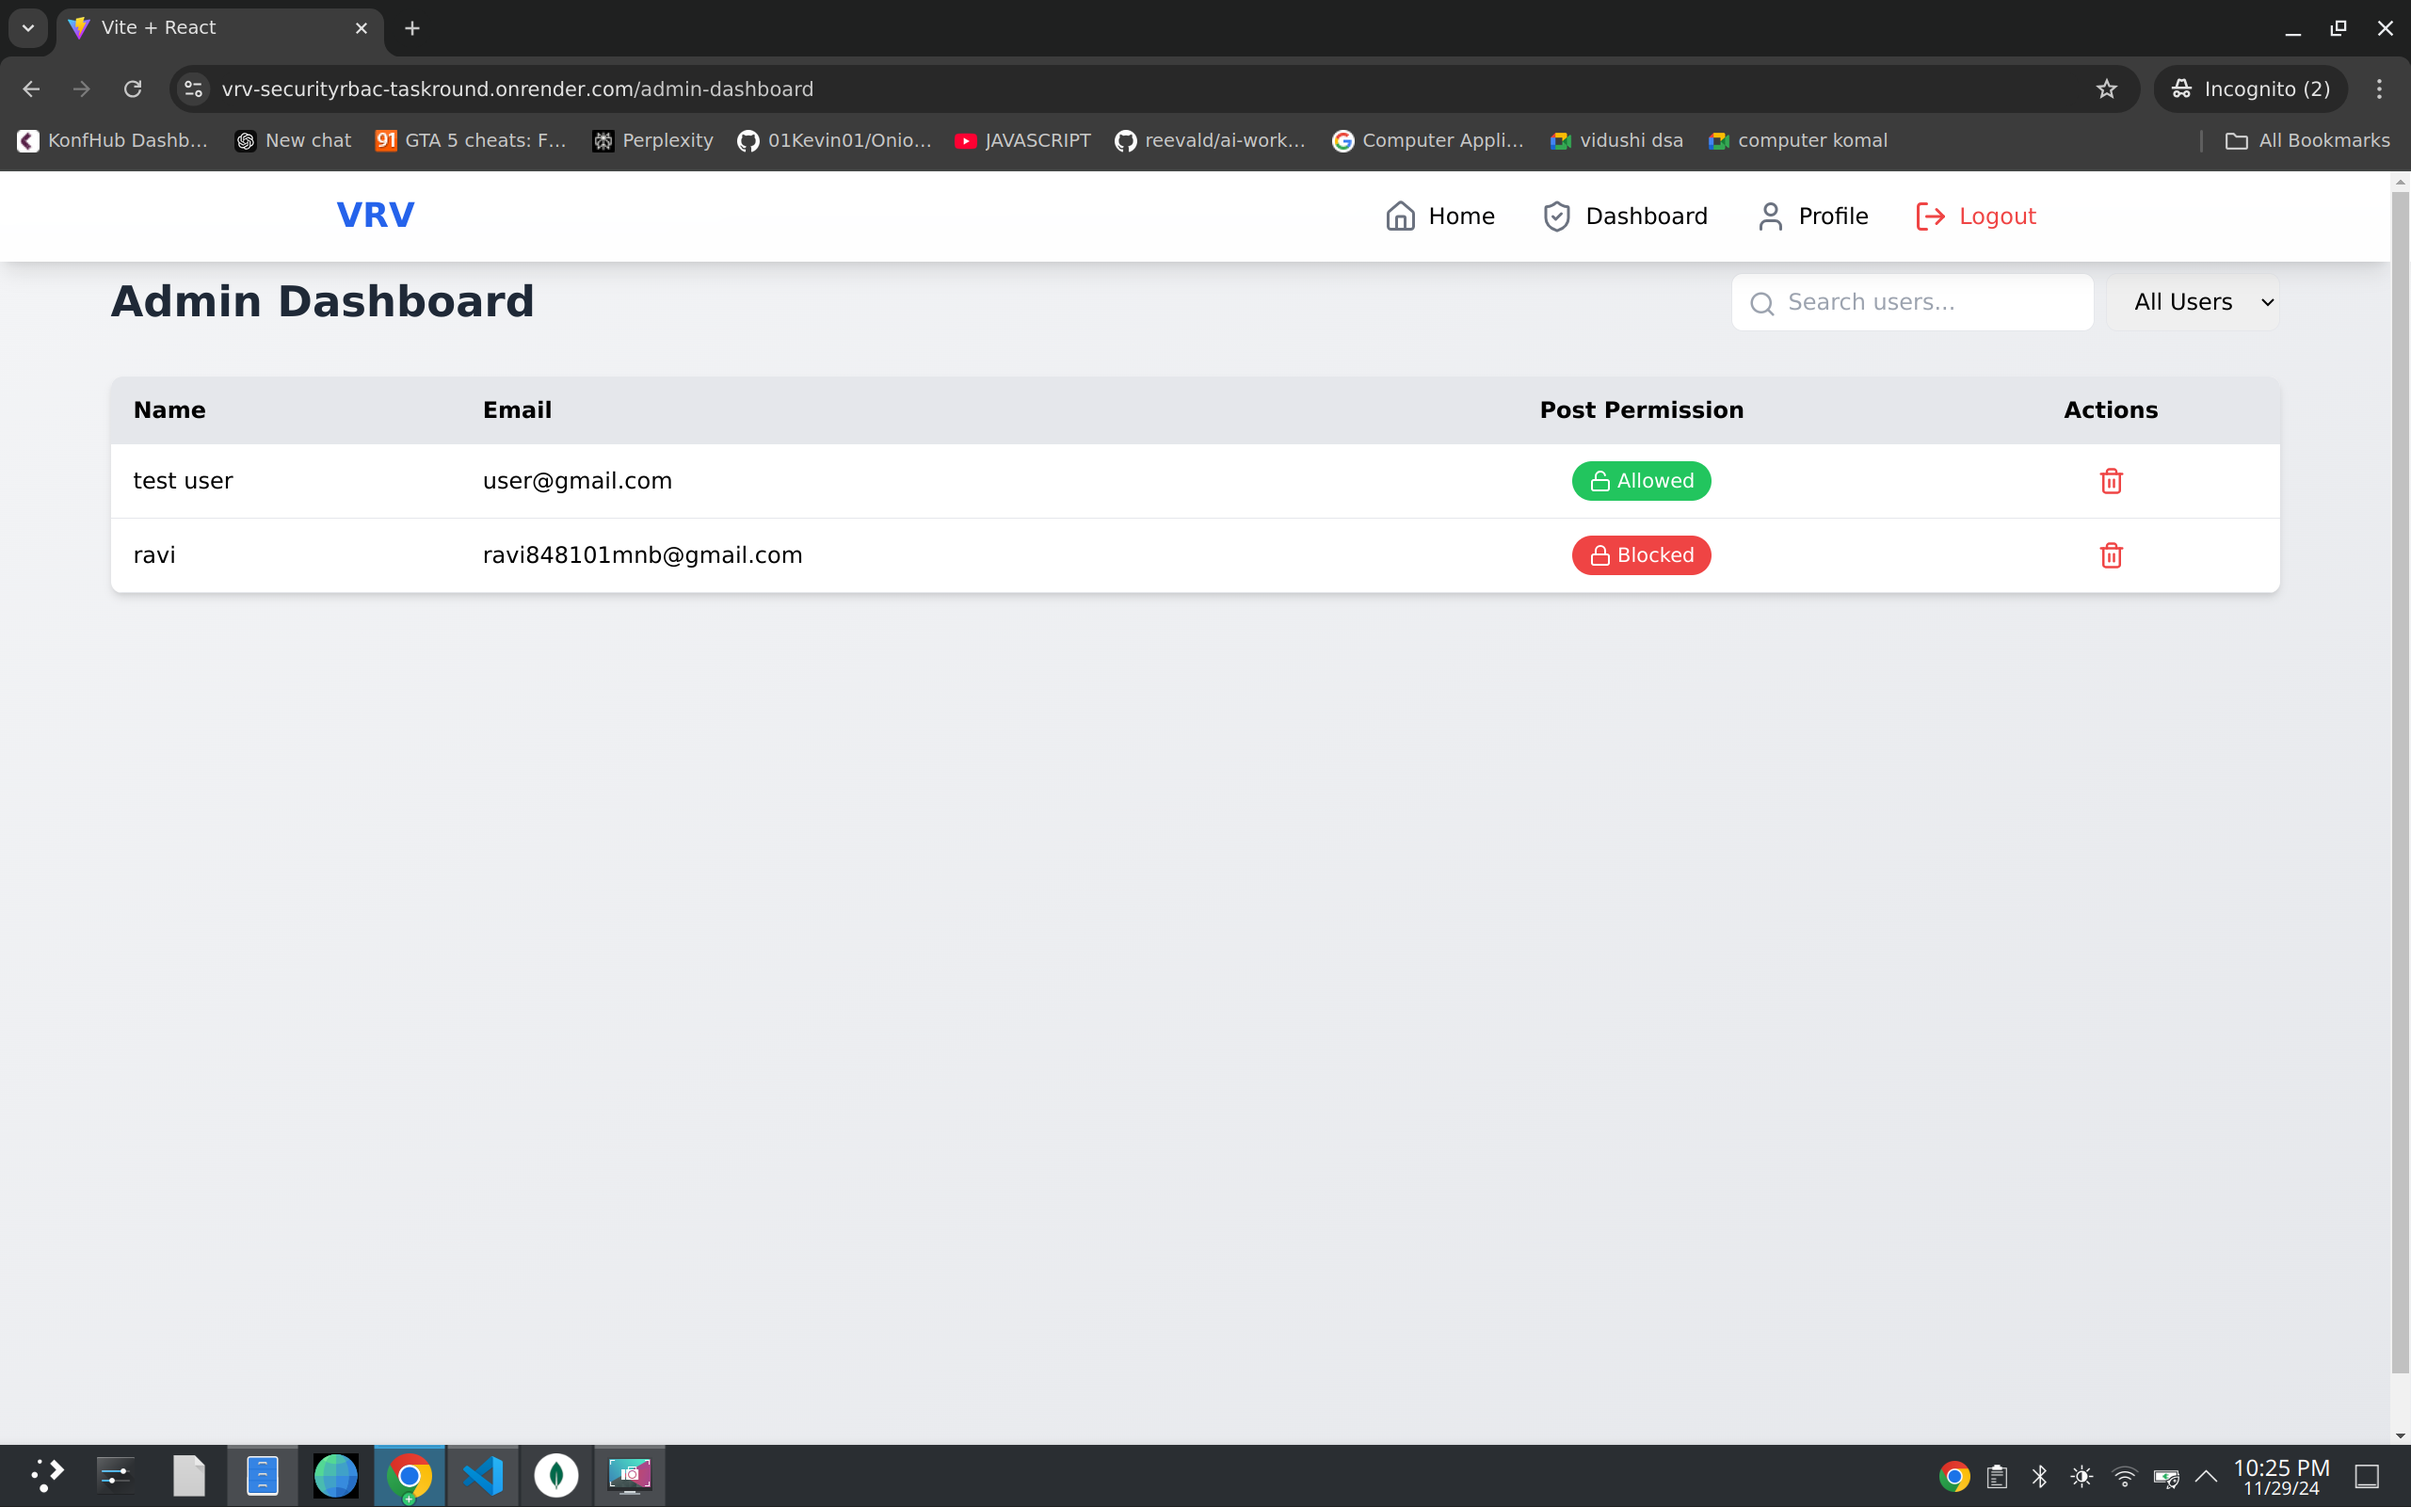
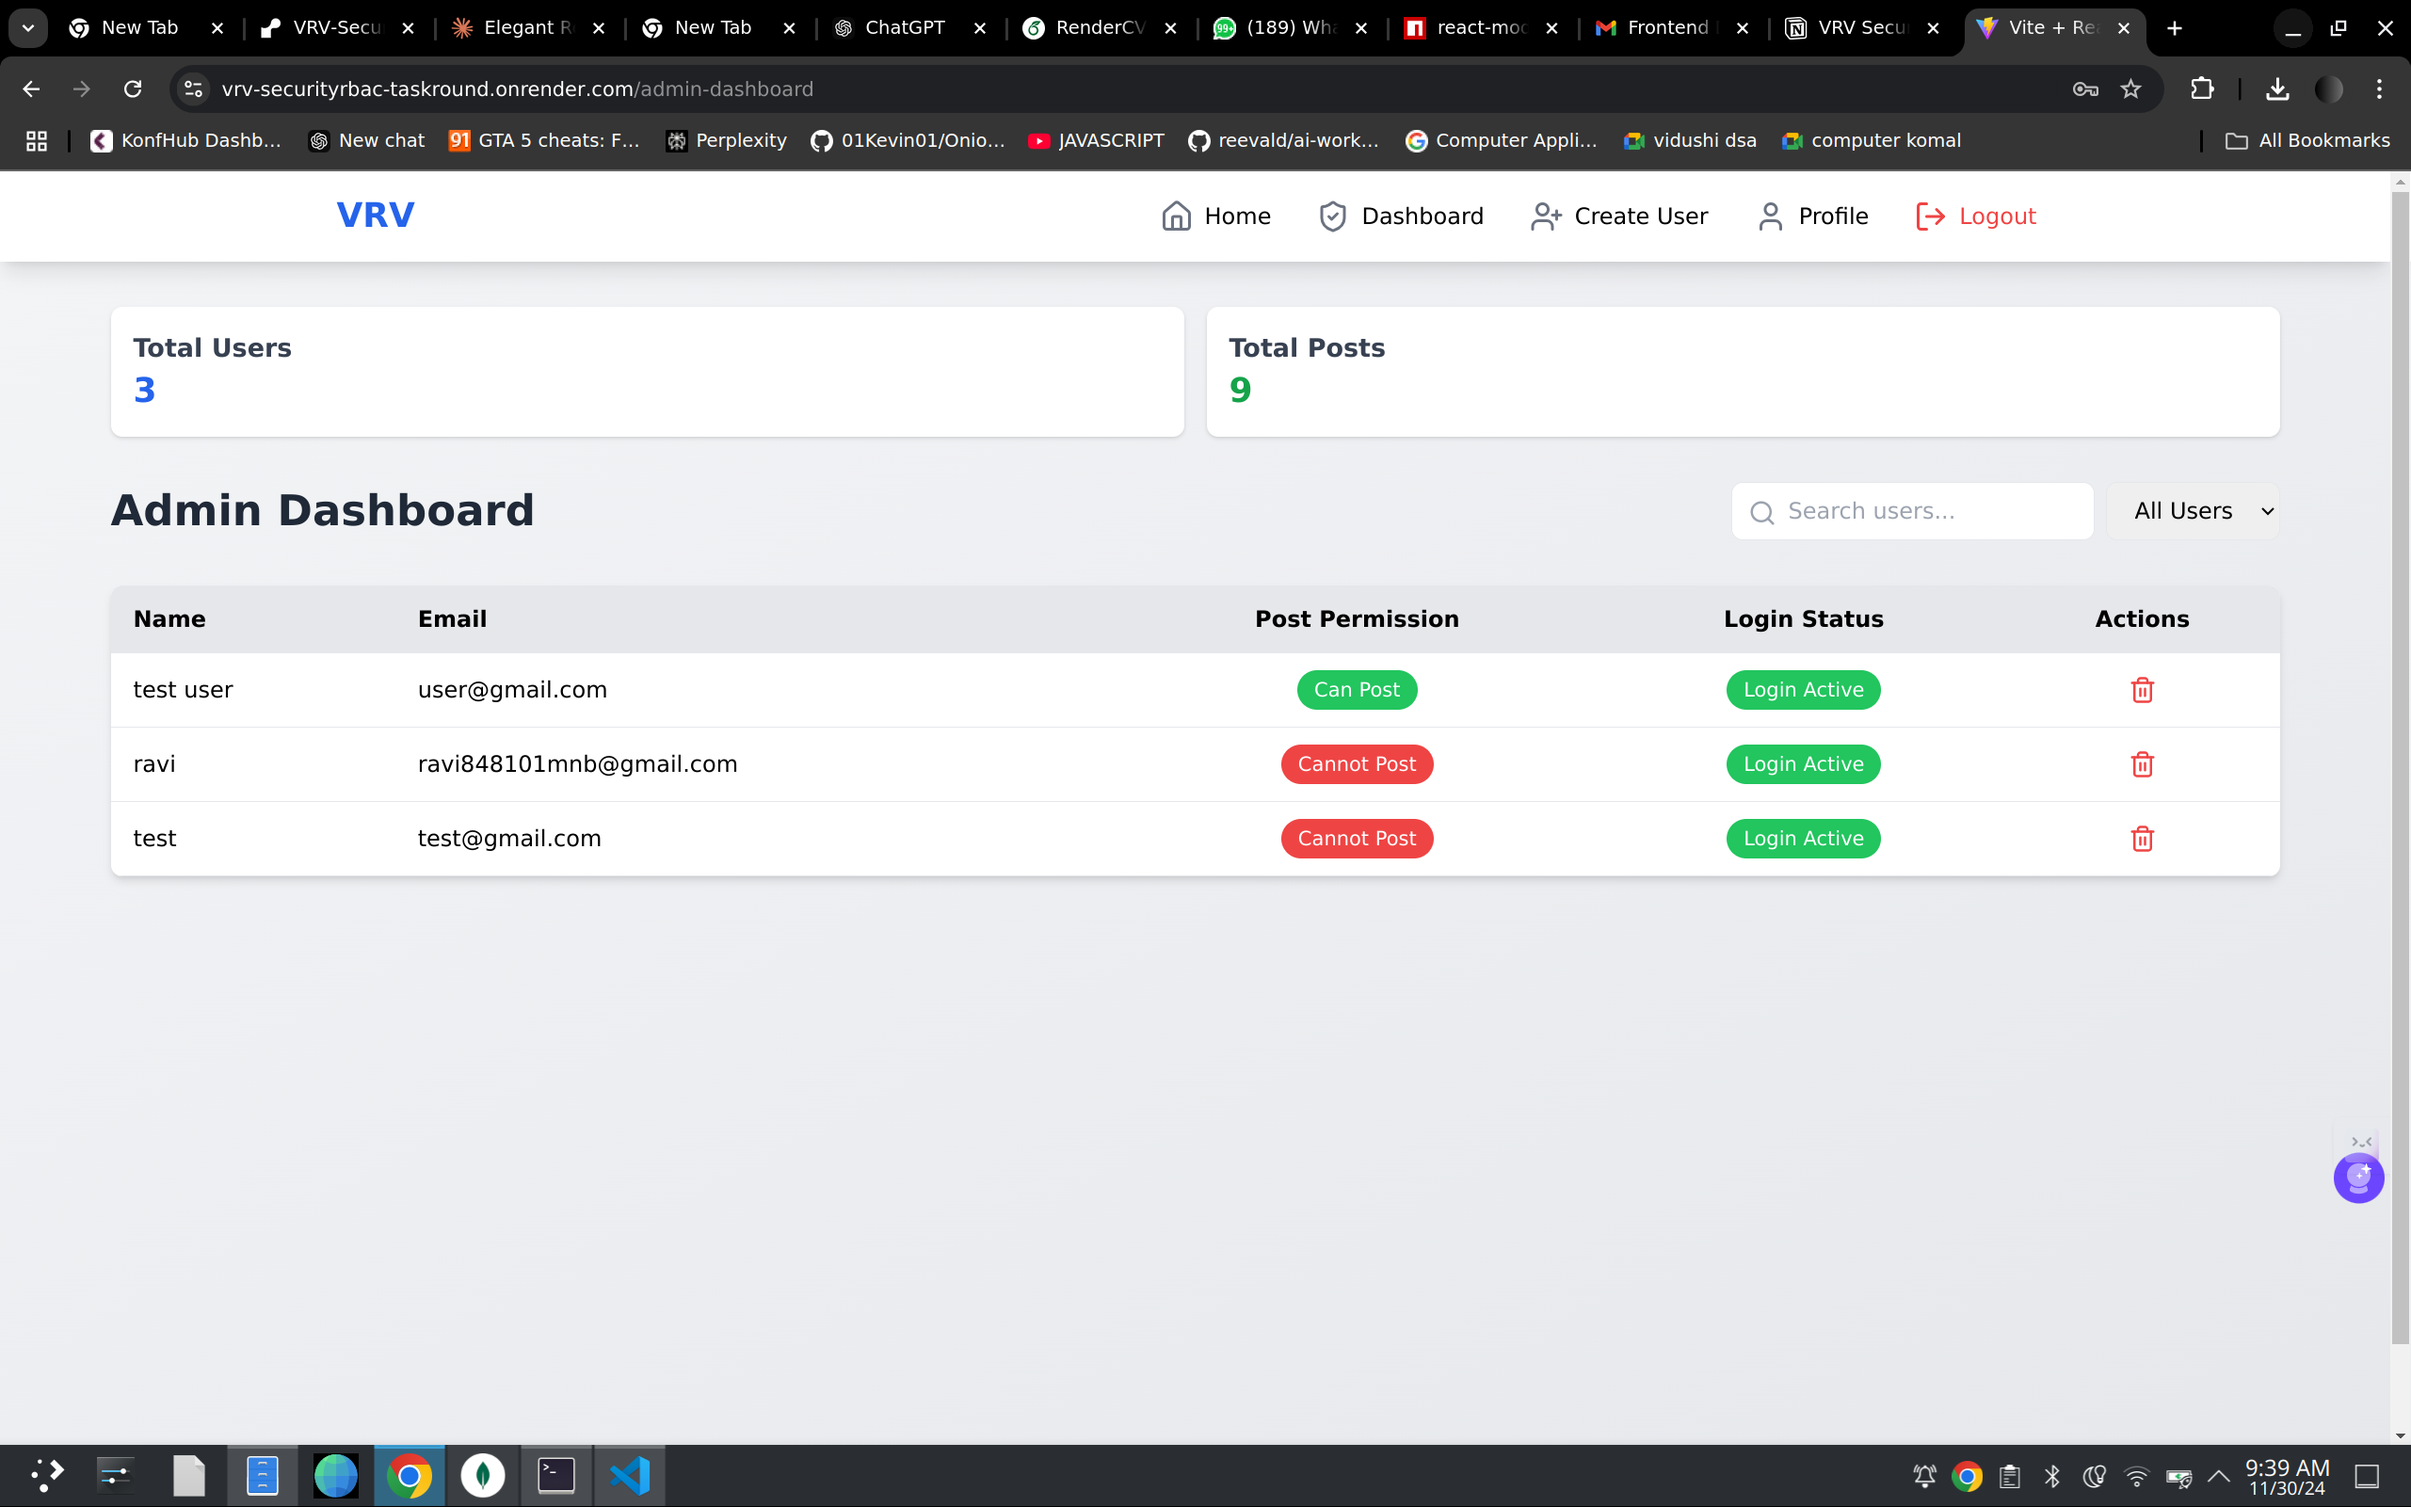
Update README.md to clarify admin capabilities and add new screenshots

diff --git a/Readme.md b/Readme.md
@@ -29,13 +29,19 @@ _Caption: login screen tap quick login credential icons to use defalut password_
 _Caption: Admin role have delete button_
 
 ![Screenshot 3](image3.png)  
-_Caption: Admin can change user can post or not_
+\_Caption: Admin can change user can post or not or can login or not
 
 ![Screenshot 4](image4.png)  
 _Caption: user without admin permit cannot post anything_
 
 ![Screenshot 5](image5.png)  
 _Caption: user can post if admin grant access_
+
+![Screenshot 6](image6.png)  
+\_Caption: admin can create user
+
+![Screenshot 6](image7.png)  
+\_Caption: Blocked user cannot login
 
 ## Getting Started
 
